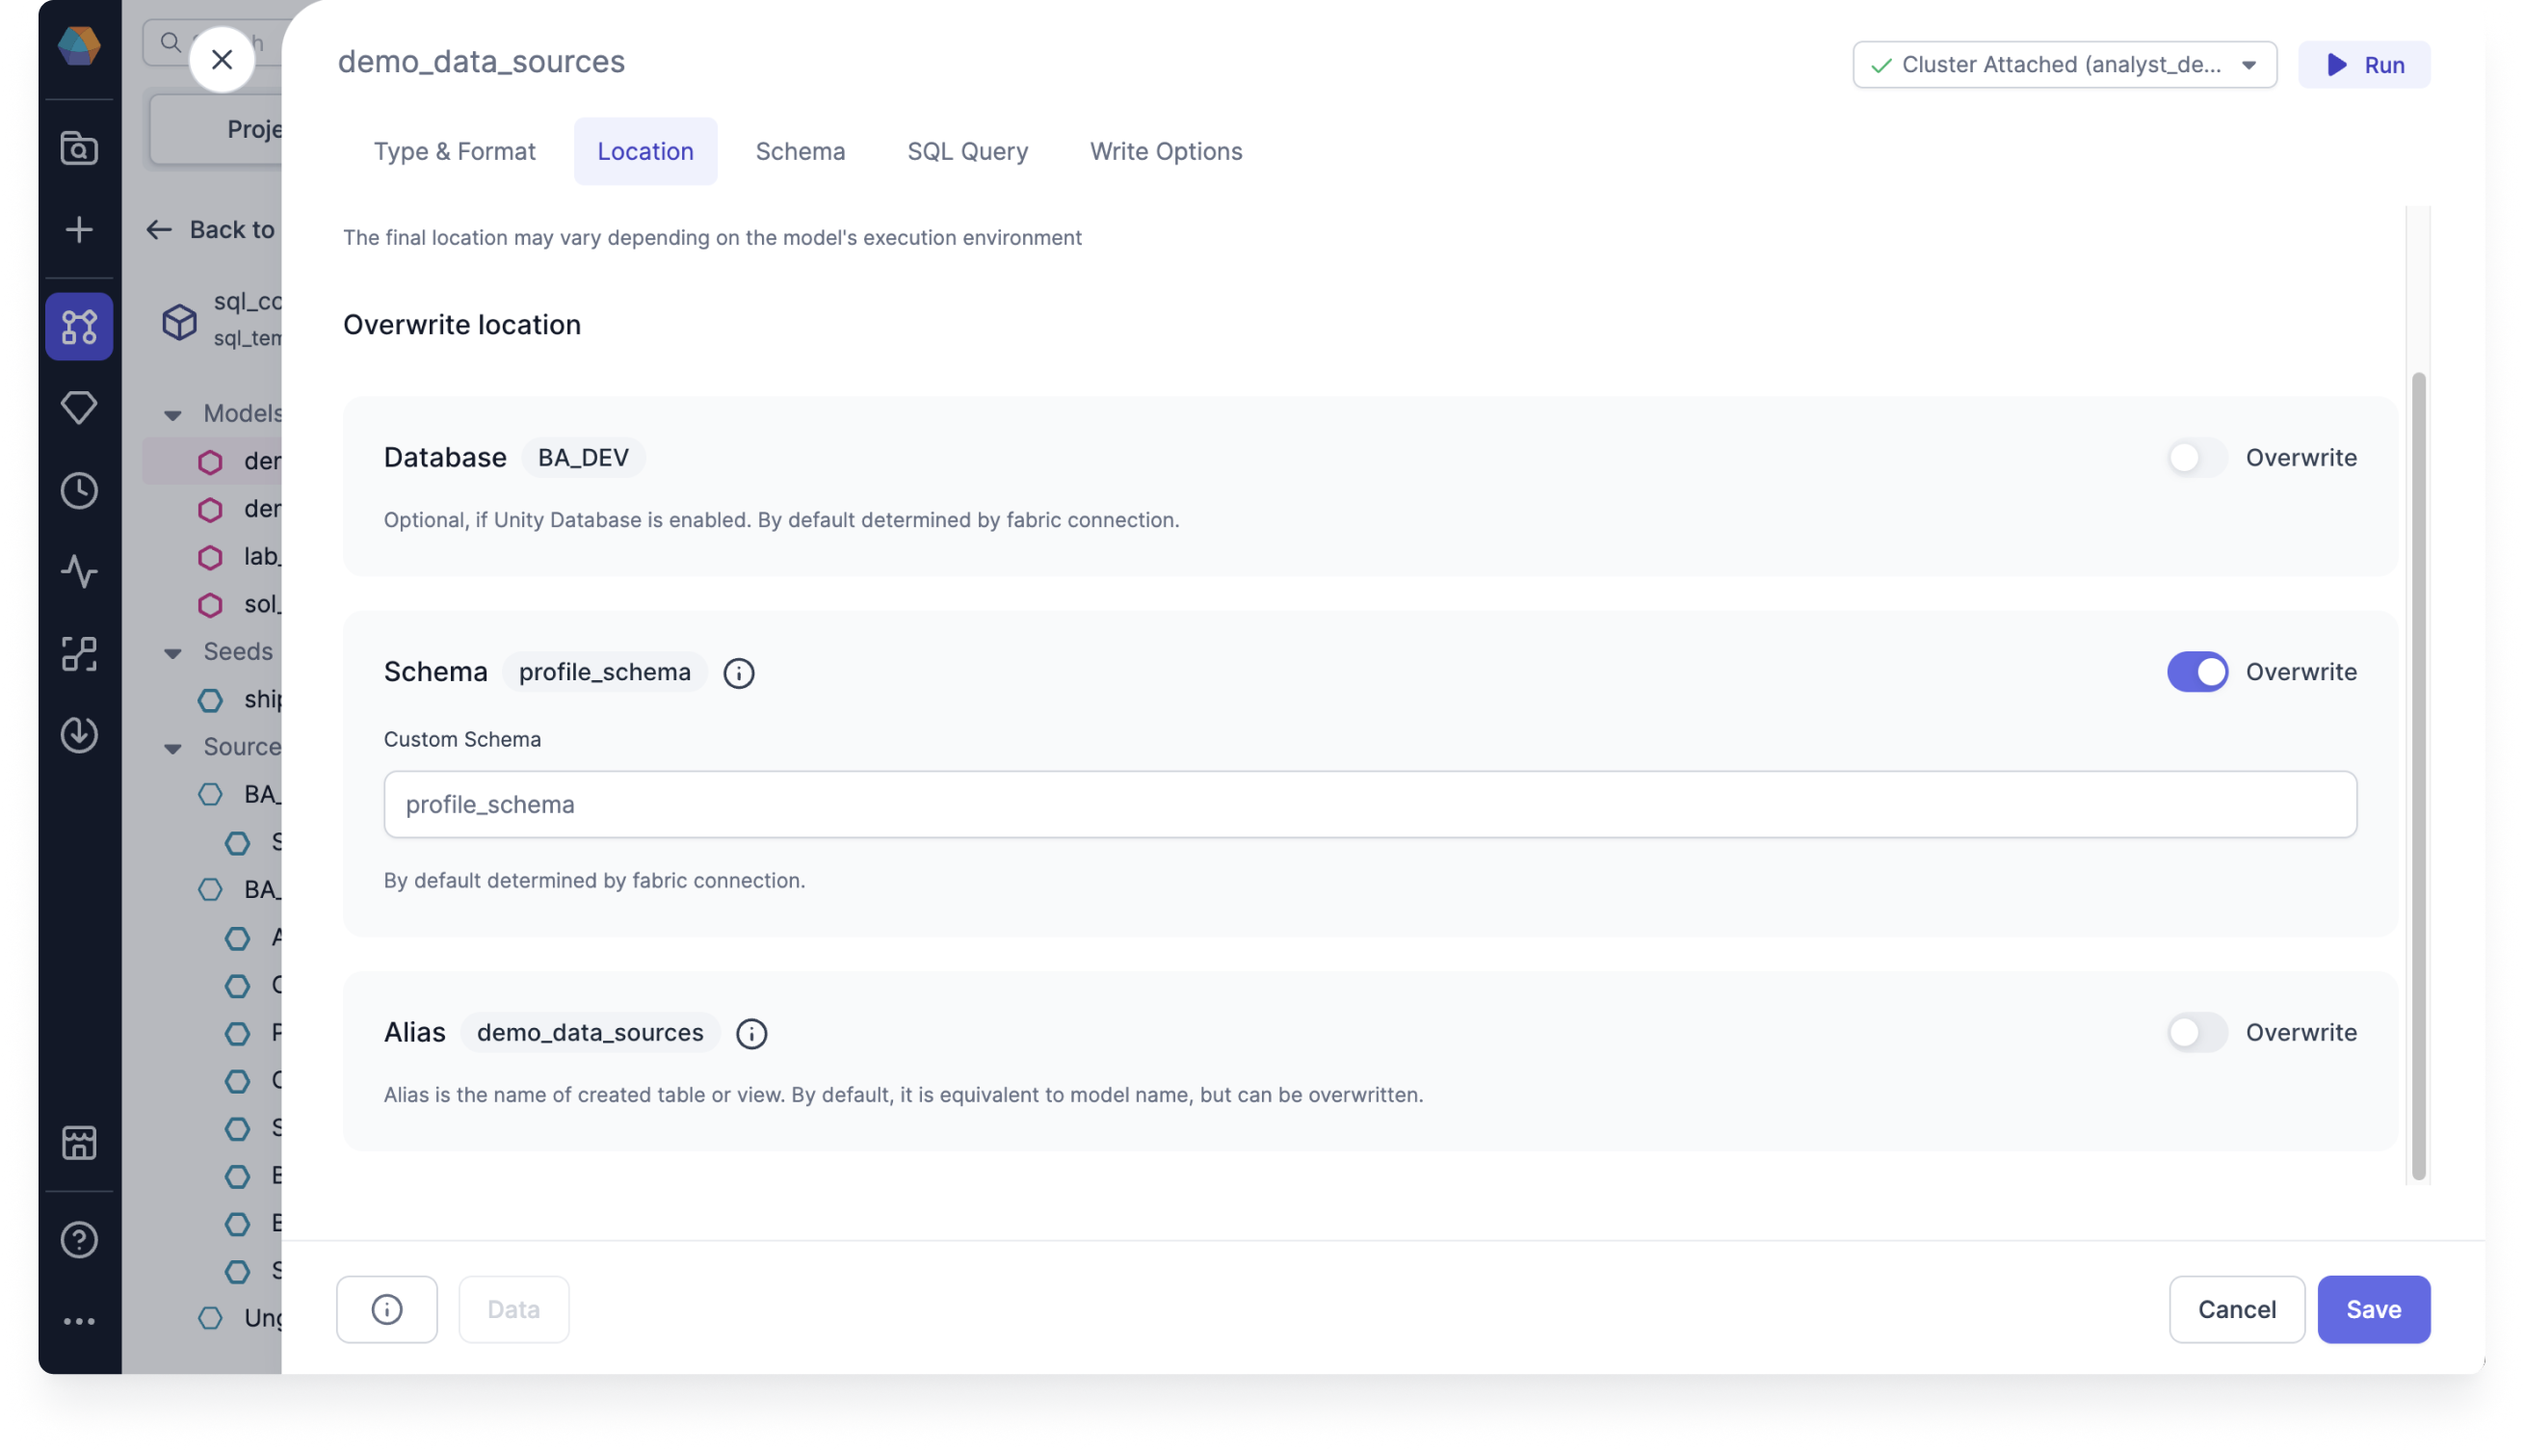
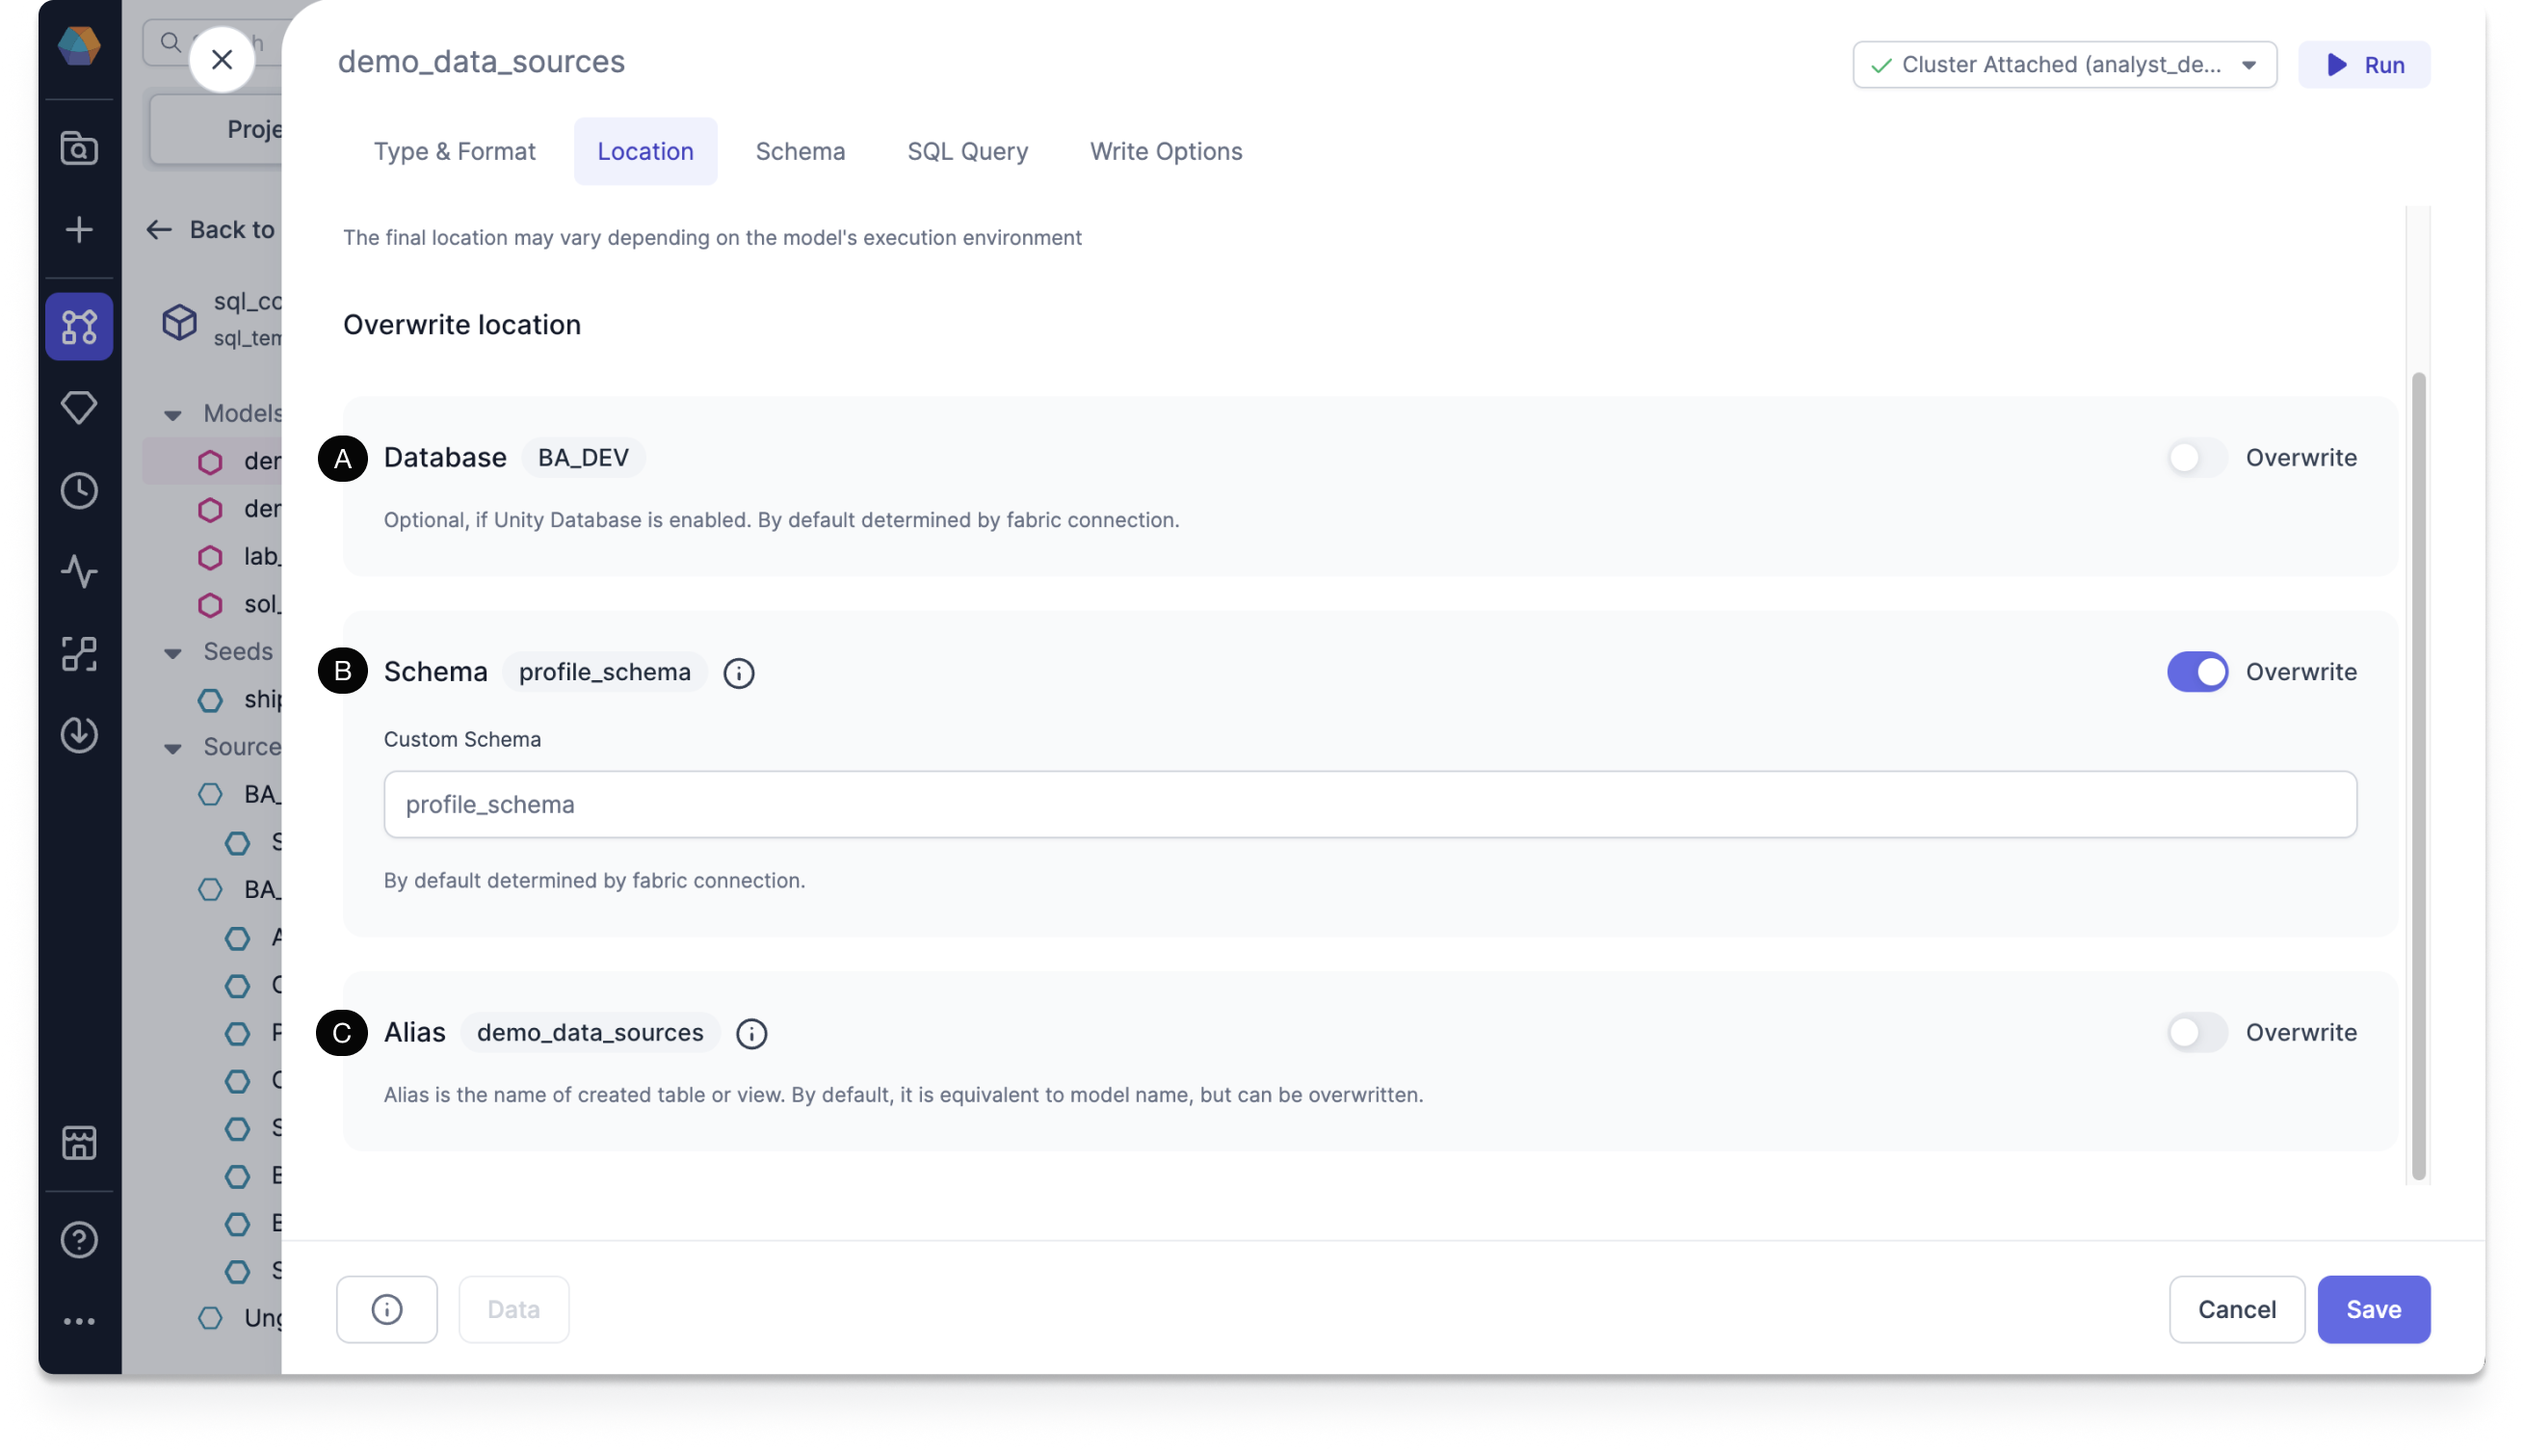
Update image for location

diff --git a/docs/SQL/development/target-models/type-and-format.md b/docs/SQL/development/target-models/type-and-format.md
@@ -13,15 +13,15 @@ tags:
 
 You can use the Type & format tab to update the format of the model between different types of materializations. This determines the underlying physical format of your Target Model.
 
-You can select the type of data you want to write from. The Warehouse represents all warehouse native and optimized data formats.
+You can select the type of data you want to write from. The Warehouse represents all native warehouse and optimized data formats.
 
 ## Materialization types
 
 The model materialization types include the following:
 
-- **View**: View models are rebuilt as a view on each run. Views on top of source data will always have the latest records in them, but no additional data is stored. So it's simply a query based on other tables. Use the view materialization type for models that do not do significant transformations. This is the default type.
-- **Table**: Table models are rebuilt as a table on each run. Tables are fast to query but can take a long time to rebuild. Use the table materialization type for any models being queried by BI tools. To apply a write mode to your Target Model, you must set use Table.
-- **Ephemeral**: Ephemeral models are not directly built into the database. Instead, the model code is inserted from an ephemeral model into its dependent models using a common table expression (CTE). Use the ephemeral materialization type for undemanding transformations that are early on in your DAG.
-- **Materialized View**: Materialized View models are a combination of a view and a table. They serve use cases similar to incremental models. A Materialized View model allows for the creation and maintenance of a materialized view in the target database Warehouse type.
+- **View**: View models are rebuilt as a view on each run. Views built on top of source data always have the latest records, but they don't store any additional data. So they're simply queries based on other tables. Use the view materialization type for models that don't do significant transformations. This is the default type.
+- **Table**: Table models are rebuilt as a table on each run. Tables are fast to query, but they can take a long time to rebuild. Use the table materialization type for any models that are queried by BI tools. To apply a write mode to your Target Model, you must use the Table type.
+- **Ephemeral**: Ephemeral models aren't built into the database. Instead, the model code is taken from an ephemeral model and inserted into its dependent models using a common table expression (CTE). Use the ephemeral materialization type for undemanding transformations that appear at the start of your DAG.
+- **Materialized View**: Materialized View models are a combination of a view and a table. They are similar to incremental models in that they serve similar use cases. A materialized view model allows you to create and maintain a materialized view in the target database Warehouse type.
 
   ![Type & Format](img/type-and-format.png)

diff --git a/docs/SQL/development/target-models/sql-query.md b/docs/SQL/development/target-models/sql-query.md
@@ -10,7 +10,7 @@ tags:
   - SQL
 ---
 
-You can use the SQL Query tab to view and enable your custom SQL query at the end of your target model. A custom SQL query enables you to perform one last data transformation step as a SQL query, before creating the model.
+You can use the SQL Query tab to view and enable your custom SQL query at the end of your Target Model. A custom SQL query enables you to perform one last data transformation step as a SQL query, before creating the model.
 
 This is useful if you import your own codebase and your final query has additional conditions. Your query is saved here for you to view and edit. For low code users you can use a Filter Gem to achieve the same results.
 
@@ -21,7 +21,7 @@ This gives you flexibility when doing last mile operations for your SQL models. 
 
 ### Ports
 
-Ports represent Gem or generated code functions inputs and outputs. Port name is a variable name in Python and Scala code, and table alias in the SQL code. Visual order of the ports defines the order of the variables.
+Ports represent Gem or generated code functions inputs and outputs. The port name is a variable name in Python and Scala code, and table alias in the SQL code. The visual order of the ports defines the order of the variables.
 
 You can edit or add Ports for Input and Output.
 
@@ -29,7 +29,7 @@ You can edit or add Ports for Input and Output.
 
 You can enable customer SQL query on the SQL Query tab.
 
-- Toggle **Enable custom SQL query** to enable your custom SQL query at the end of your Model.
+- Toggle **Enable custom SQL query** to enable your custom SQL query at the end of your model.
 
 ![SQL Query](img/sql-query.png)
 
@@ -47,12 +47,12 @@ You can use your declared dbt variables in the SQL query.
 
 ## Declare variables
 
-The variable declaration interface allows you to configure variables directly in the SQL Query for your target model.
+The variable declaration interface allows you to configure variables directly in the SQL Query for your Target Model.
 
 Declared variables are accessible by clicking configuration to add the variable of interest.
 
-- You can declare the variables under **...** > **Configuration** using key-value pairs, and they can be defined at the model or project level.
+- You can declare the variables under **...** > **Configuration** using key-value pairs. Variables can be defined at the model or project level.
 
 ![Configuration](img/configuration.png)
 
-You can then use the variable, along with standard dbt functions, in the target model SQL Query tab.
+You can then use the variable, along with standard dbt functions, in the Target Model SQL Query tab.

diff --git a/docs/SQL/development/target-models/location.md b/docs/SQL/development/target-models/location.md
@@ -16,7 +16,7 @@ The full location of a table, view, and other objects consists of a database, sc
 
 ## Overwrite location
 
-Prophecy allows you to overwrite the schema behavior, and define it from scratch.
+Prophecy allows you to overwrite the schema behavior, and if you wish, define it from scratch.
 
 You can select how you want to store the table, choosing the location by overwriting the properties. The defaults are automatically provided for you.
 
@@ -24,8 +24,8 @@ You can select how you want to store the table, choosing the location by overwri
 
 For the following locations, toggle **Overwrite** to add your own overwrite macro:
 
-- **Database**: Optional, if Unity Database is enabled. By default, it is determined by the Fabric connection. You can overwrite it.
-- **Schema**: The default schema is determined by the Fabric connection. You can overwrite it.
-- **Alias** - Alias is the name of the created table or view. By default, it is equivalent to model name, but you can be overwrite it.
+- **(A) Database**: Optional, if Unity Database is enabled. By default, it's determined by the Fabric connection. You can overwrite it.
+- **(B) Schema**: The default schema is determined by the Fabric connection. You can overwrite it.
+- **(C) Alias** - Alias is the name of the created table or view. By default, it's equivalent to model name. You can overwrite it.
 
 ![Location](img/location.png)
